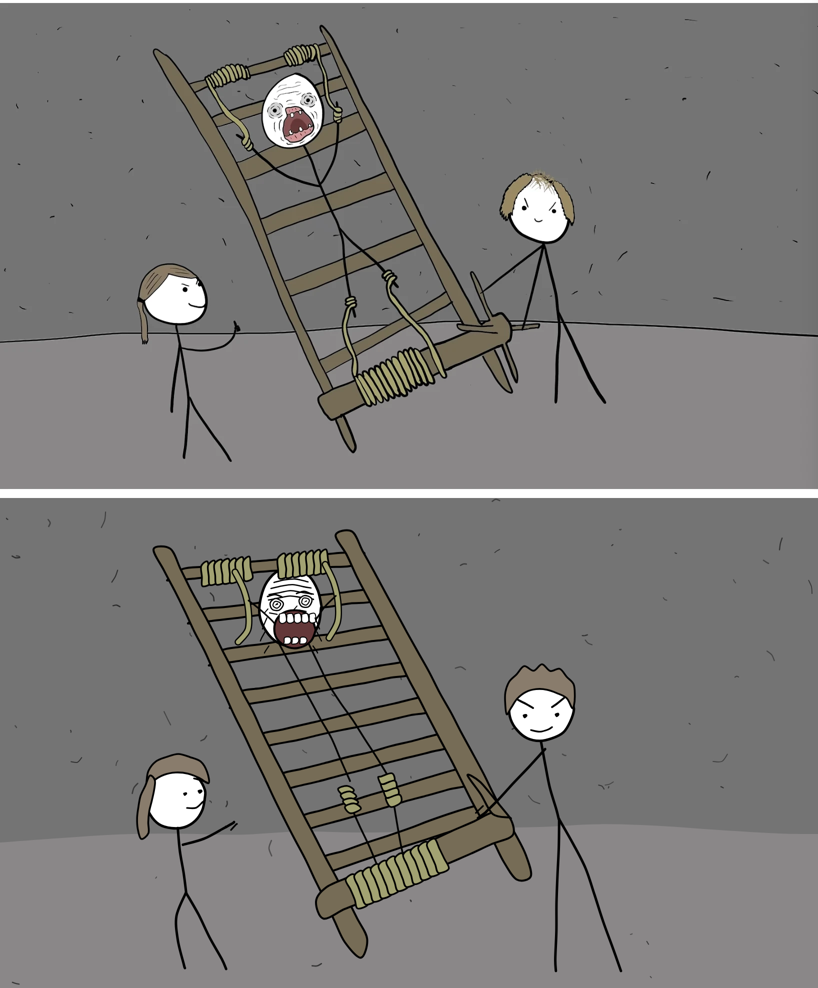
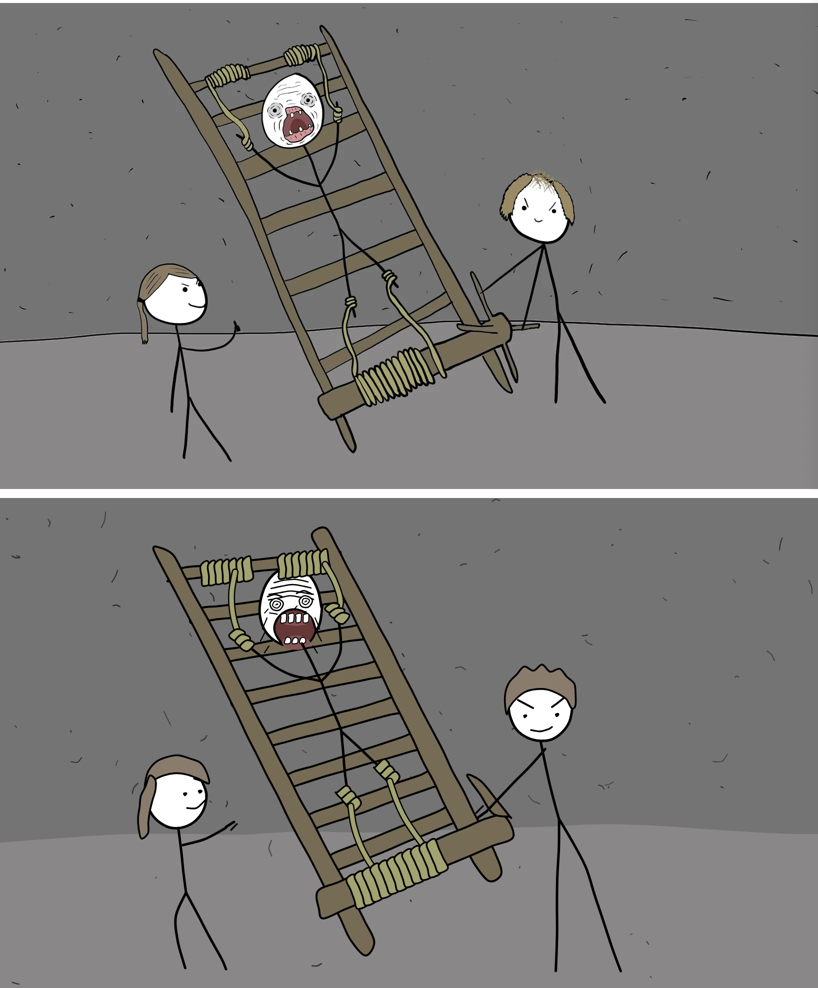
Fix the tortured figure's limbs and the ladder width
Two corrections to the redraw, both structural rather than cosmetic.

The tortured figure is a stick figure like the other two, spread-eagled on
the ladder — wrists roped up to the top rung, ankles roped down to the
plank. The first pass read his arms and legs as rope, so he came out as a
head on a string with no limbs at all. A 3x trace shows the neck and both
arms meeting at one shoulder point (642,367), and the torso splitting into
legs at the hip (683,467); the ropes bind the ends rather than replace them.

Separately, a row-by-row width diff against the reference showed the right
rail sitting ~55px too far right, splaying the ladder to ~420px where the
reference holds a near-constant ~350. Cause was reading measured outer
edges as rail centre lines. Refit both rails and the plank's right end.

Also adds the mouth's tongue and gums (#865455 against the #653737
throat), and narrows the teeth to match.

Claude-Session: https://claude.ai/code/session_018JGM3YsZuWJ75xYZmnntbE

diff --git a/scripts/style-lab/scene_ladder.py b/scripts/style-lab/scene_ladder.py
@@ -45,8 +45,11 @@ for _ in range(96):
 
 # ---------------------------------------------------------------- the ladder
 # Rail centrelines, from the wood-mask column extents.
-L0, L1 = (322, 96), (716, 895)
-R0, R1 = (686, 66), (1044, 748)
+# Refit against the reference row by row: its ladder is near-constant width
+# (~350px), it does not splay toward the camera. Reading the measured numbers as
+# rail centres when they were outer edges pushed the right rail ~55px wide.
+L0, L1 = (321, 96), (730, 895)
+R0, R1 = (639, 66), (984, 748)
 
 
 def rail_pt(t, top, bot):
@@ -90,13 +93,15 @@ p.stroke([(FX - 1, 224), (FX + 10, 234), (FX - 4, 239)], w=2.4, amp=0.8, step=14
 # the scream
 mouth = oval(590, 262, 41, 38, rot=0.12, n=30)
 p.shape(mouth, C["mouth"], w=4.2, amp=1.4, step=20)
-for i in range(5):                                        # upper teeth
-    tx = 559 + i * 15
-    p.shape([(tx, 232), (tx + 13, 230), (tx + 13, 249), (tx, 251)],
+p.shape(oval(590, 243, 33, 13, n=18), C["gum"], stroke=None, amp=1.0, step=14)
+p.shape(oval(592, 289, 28, 14, n=18), C["gum"], stroke=None, amp=1.0, step=14)  # tongue
+for i in range(4):                                        # upper teeth
+    tx = 562 + i * 15
+    p.shape([(tx, 233), (tx + 11, 231), (tx + 11, 248), (tx, 250)],
             C["skin"], w=2.0, amp=0.7, step=10)
 for i in range(3):                                        # lower teeth
-    tx = 568 + i * 16
-    p.shape([(tx, 292), (tx + 14, 291), (tx + 14, 278), (tx, 279)],
+    tx = 570 + i * 15
+    p.shape([(tx, 291), (tx + 11, 290), (tx + 11, 278), (tx, 279)],
             C["skin"], w=2.0, amp=0.7, step=10)
 # cheek and jaw creases
 for sx in (-1, 1):
@@ -105,30 +110,42 @@ for sx in (-1, 1):
                  w=2.3, amp=0.9, step=14)
 
 # --------------------------------------------------- bottom plank, over rails
-PK_A, PK_B = (636, 816), (1022, 644)
+PK_A, PK_B = (636, 816), (1016, 652)
 p.plank(PK_A, PK_B, 54, 58)
 # the splintered sliver poking up-left out of it
 p.plank((1010, 644), (944, 556), 24, 12, tip=12)
 
-# ------------------------------------------------------------------- ropes
-rung1_a = rail_pt(0.075, L0, L1)
-rung1_b = rail_pt(0.075, R0, R1)
-# two lashings at the top rung
+# ------------------------------------------------ the tortured, and his ropes
+# He is a stick figure like the other two, spread-eagled on the ladder: wrists
+# roped up to the top rung, ankles roped down to the plank. Traced off the
+# reference at 3x — the neck and BOTH arms meet at a single shoulder point
+# (642,367), and the torso splits into legs at the hip (683,467). Read those
+# lines as rope instead of limbs and he ends up a head on a string.
+SHOULDER = (642, 367)
+HIP = (683, 467)
+WRIST_L, WRIST_R = (487, 288), (674, 230)
+ANKLE_L, ANKLE_R = (699, 601), (775, 550)
+
+p.stroke([(604, 291), (624, 330), SHOULDER], w=W_OUTLINE, amp=1.5, step=34)   # neck
+p.stroke([WRIST_L, (521, 314), (556, 344), (600, 360), SHOULDER],             # arms,
+         w=W_OUTLINE, amp=1.8, step=40)                                       # hauled
+p.stroke([WRIST_R, (684, 300), (664, 342), SHOULDER], w=W_OUTLINE, amp=1.8, step=40)
+p.stroke([SHOULDER, (660, 414), HIP], w=W_OUTLINE, amp=1.5, step=44)          # torso
+p.stroke([HIP, (689, 532), ANKLE_L], w=W_OUTLINE, amp=1.8, step=44)           # legs
+p.stroke([HIP, (728, 508), ANKLE_R], w=W_OUTLINE, amp=1.8, step=44)
+
+# top-rung lashings, and the ropes down to each wrist
 p.coil((404, 152), (502, 141), 7, 48)
 p.coil((558, 137), (656, 126), 7, 48)
-# hanging loops beside the face
-p.cord([(470, 148), (497, 206), (494, 262), (476, 288)], w=9)
-p.cord([(650, 133), (676, 192), (674, 250), (658, 280)], w=9)
-# black cords running down the ladder from the face
-p.stroke([(556, 288), (600, 372), (656, 468), (700, 566)], w=3.6, amp=1.6, step=44)
-p.stroke([(618, 292), (664, 386), (724, 474), (776, 556)], w=3.6, amp=1.6, step=44)
-p.stroke([(704, 622), (736, 694), (760, 748)], w=3.6, amp=1.6, step=40)
-p.stroke([(788, 612), (800, 676), (808, 722)], w=3.6, amp=1.6, step=40)
-p.stroke([(497, 205), (530, 232), (548, 250)], w=3.2, amp=1.4, step=30)
-p.stroke([(672, 196), (646, 222), (632, 244)], w=3.2, amp=1.4, step=30)
-# knots on the cords
-p.coil((690, 578), (708, 626), 4, 28)
-p.coil((772, 556), (792, 612), 4, 30)
+p.cord([(470, 148), (458, 206), (470, 258), (488, 284)], w=9)
+p.cord([(650, 133), (674, 178), (680, 210), (674, 234)], w=9)
+p.coil((470, 268), (500, 300), 3, 26)          # wrist bindings, over the limb
+p.coil((660, 214), (690, 244), 3, 26)
+# ankle bindings, and the ropes down to the plank
+p.coil((684, 582), (714, 618), 3, 28)
+p.coil((760, 532), (792, 566), 3, 28)
+p.cord([(702, 616), (710, 670), (730, 714), (750, 742)], w=9)
+p.cord([(780, 566), (802, 626), (838, 686), (868, 724)], w=9)
 # the big lashing round the plank
 p.coil((704, 790), (882, 712), 11, 66)
 

diff --git a/scripts/style-lab/stickstyle.py b/scripts/style-lab/stickstyle.py
@@ -25,7 +25,8 @@ PALETTE = {
     "wood":   "#766c56",   # ladder
     "rope":   "#a2a272",   # lashings
     "hair":   "#897c6c",
-    "mouth":  "#633839",
+    "mouth":  "#653737",   # throat
+    "gum":    "#865455",   # tongue and gums
     "ink":    "#000000",
 }
 

diff --git a/scripts/style-lab/README.md b/scripts/style-lab/README.md
@@ -94,3 +94,20 @@ decision as the flat fills here.
 Two things carry across regardless of style: the horizon as a colour change with
 no line, and rationing detail so one element in the frame is drawn much harder
 than everything around it.
+
+## What measurement does not give you
+
+Masking recovers geometry. It does not tell you what a line *is*, and getting that
+wrong is worse than getting a coordinate wrong. First pass here read the tortured
+figure's limbs as rope, so he came out a head on a string — the black lines were
+all in roughly the right places and the drawing was still incorrect.
+
+The tell was only visible at 3x: the neck and **both arms meet at a single
+shoulder point** (642,367), and the torso splits into legs at the hip (683,467).
+He is a stick figure like the other two, spread-eagled, wrists roped up to the top
+rung and ankles roped down to the plank. Same lesson for the rails — reading
+measured outer edges as centre lines splayed the ladder 70px too wide, which only
+showed up on a row-by-row width diff against the reference.
+
+Check structure at high zoom before trusting a mask, and diff widths against the
+original rather than eyeballing the composite.
